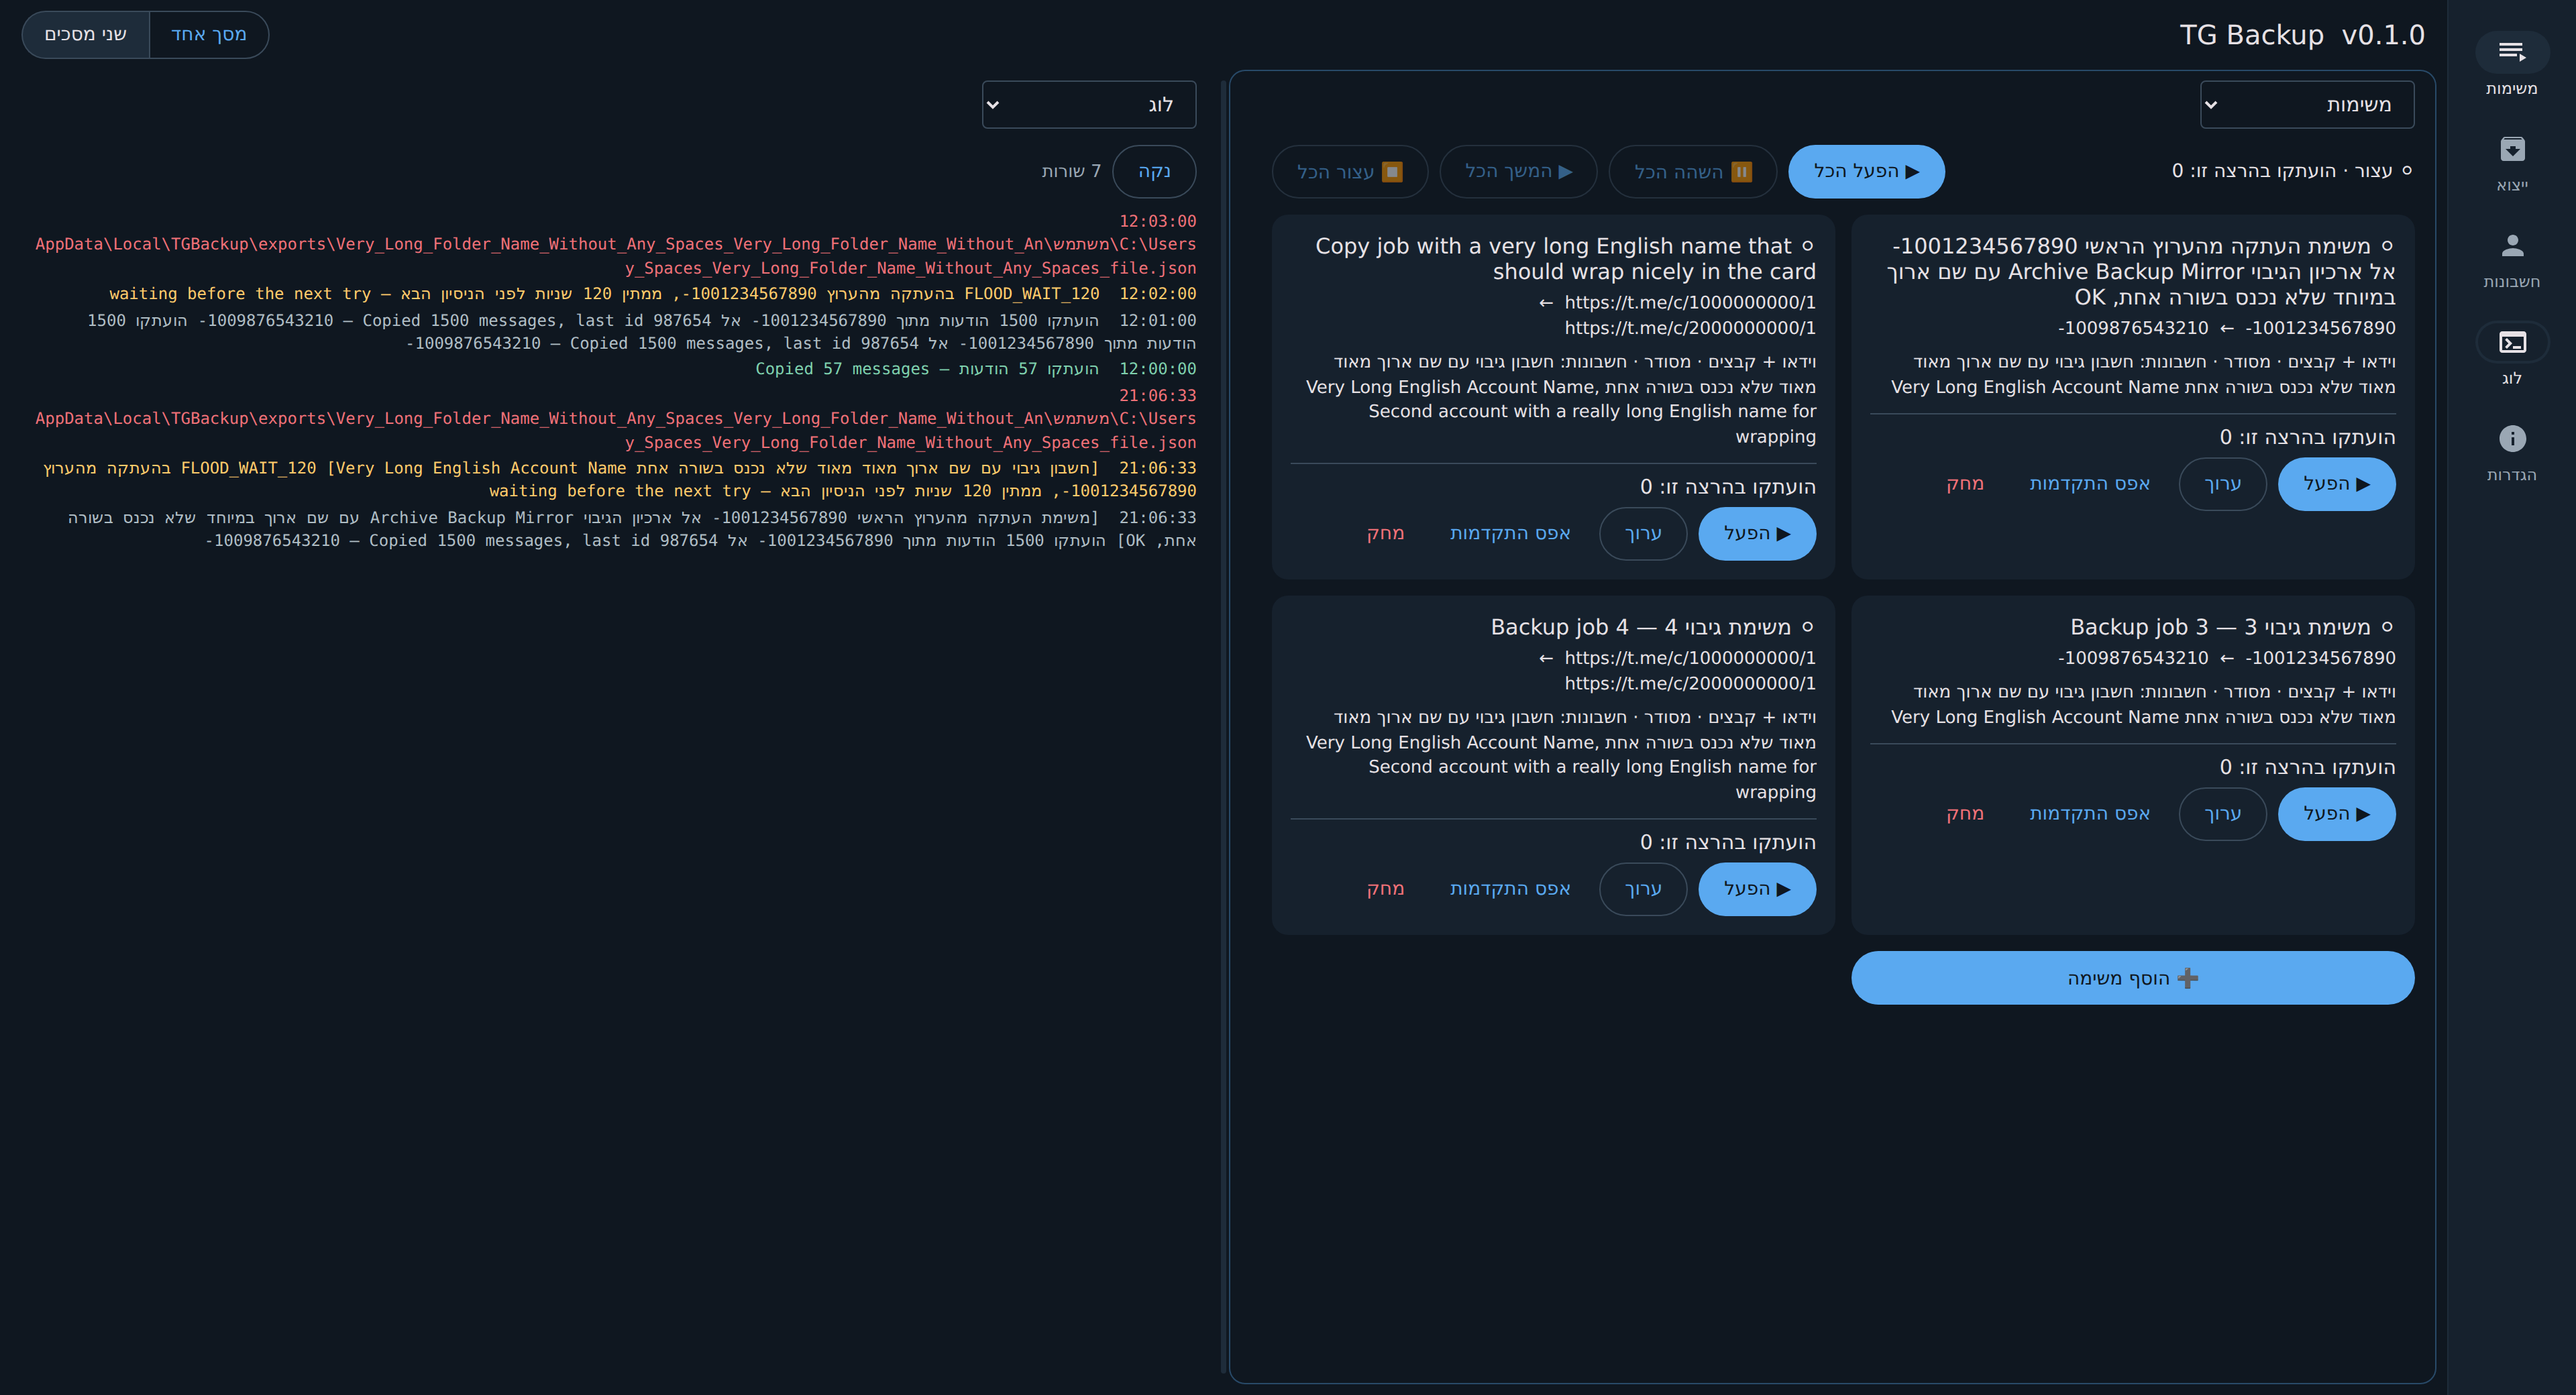
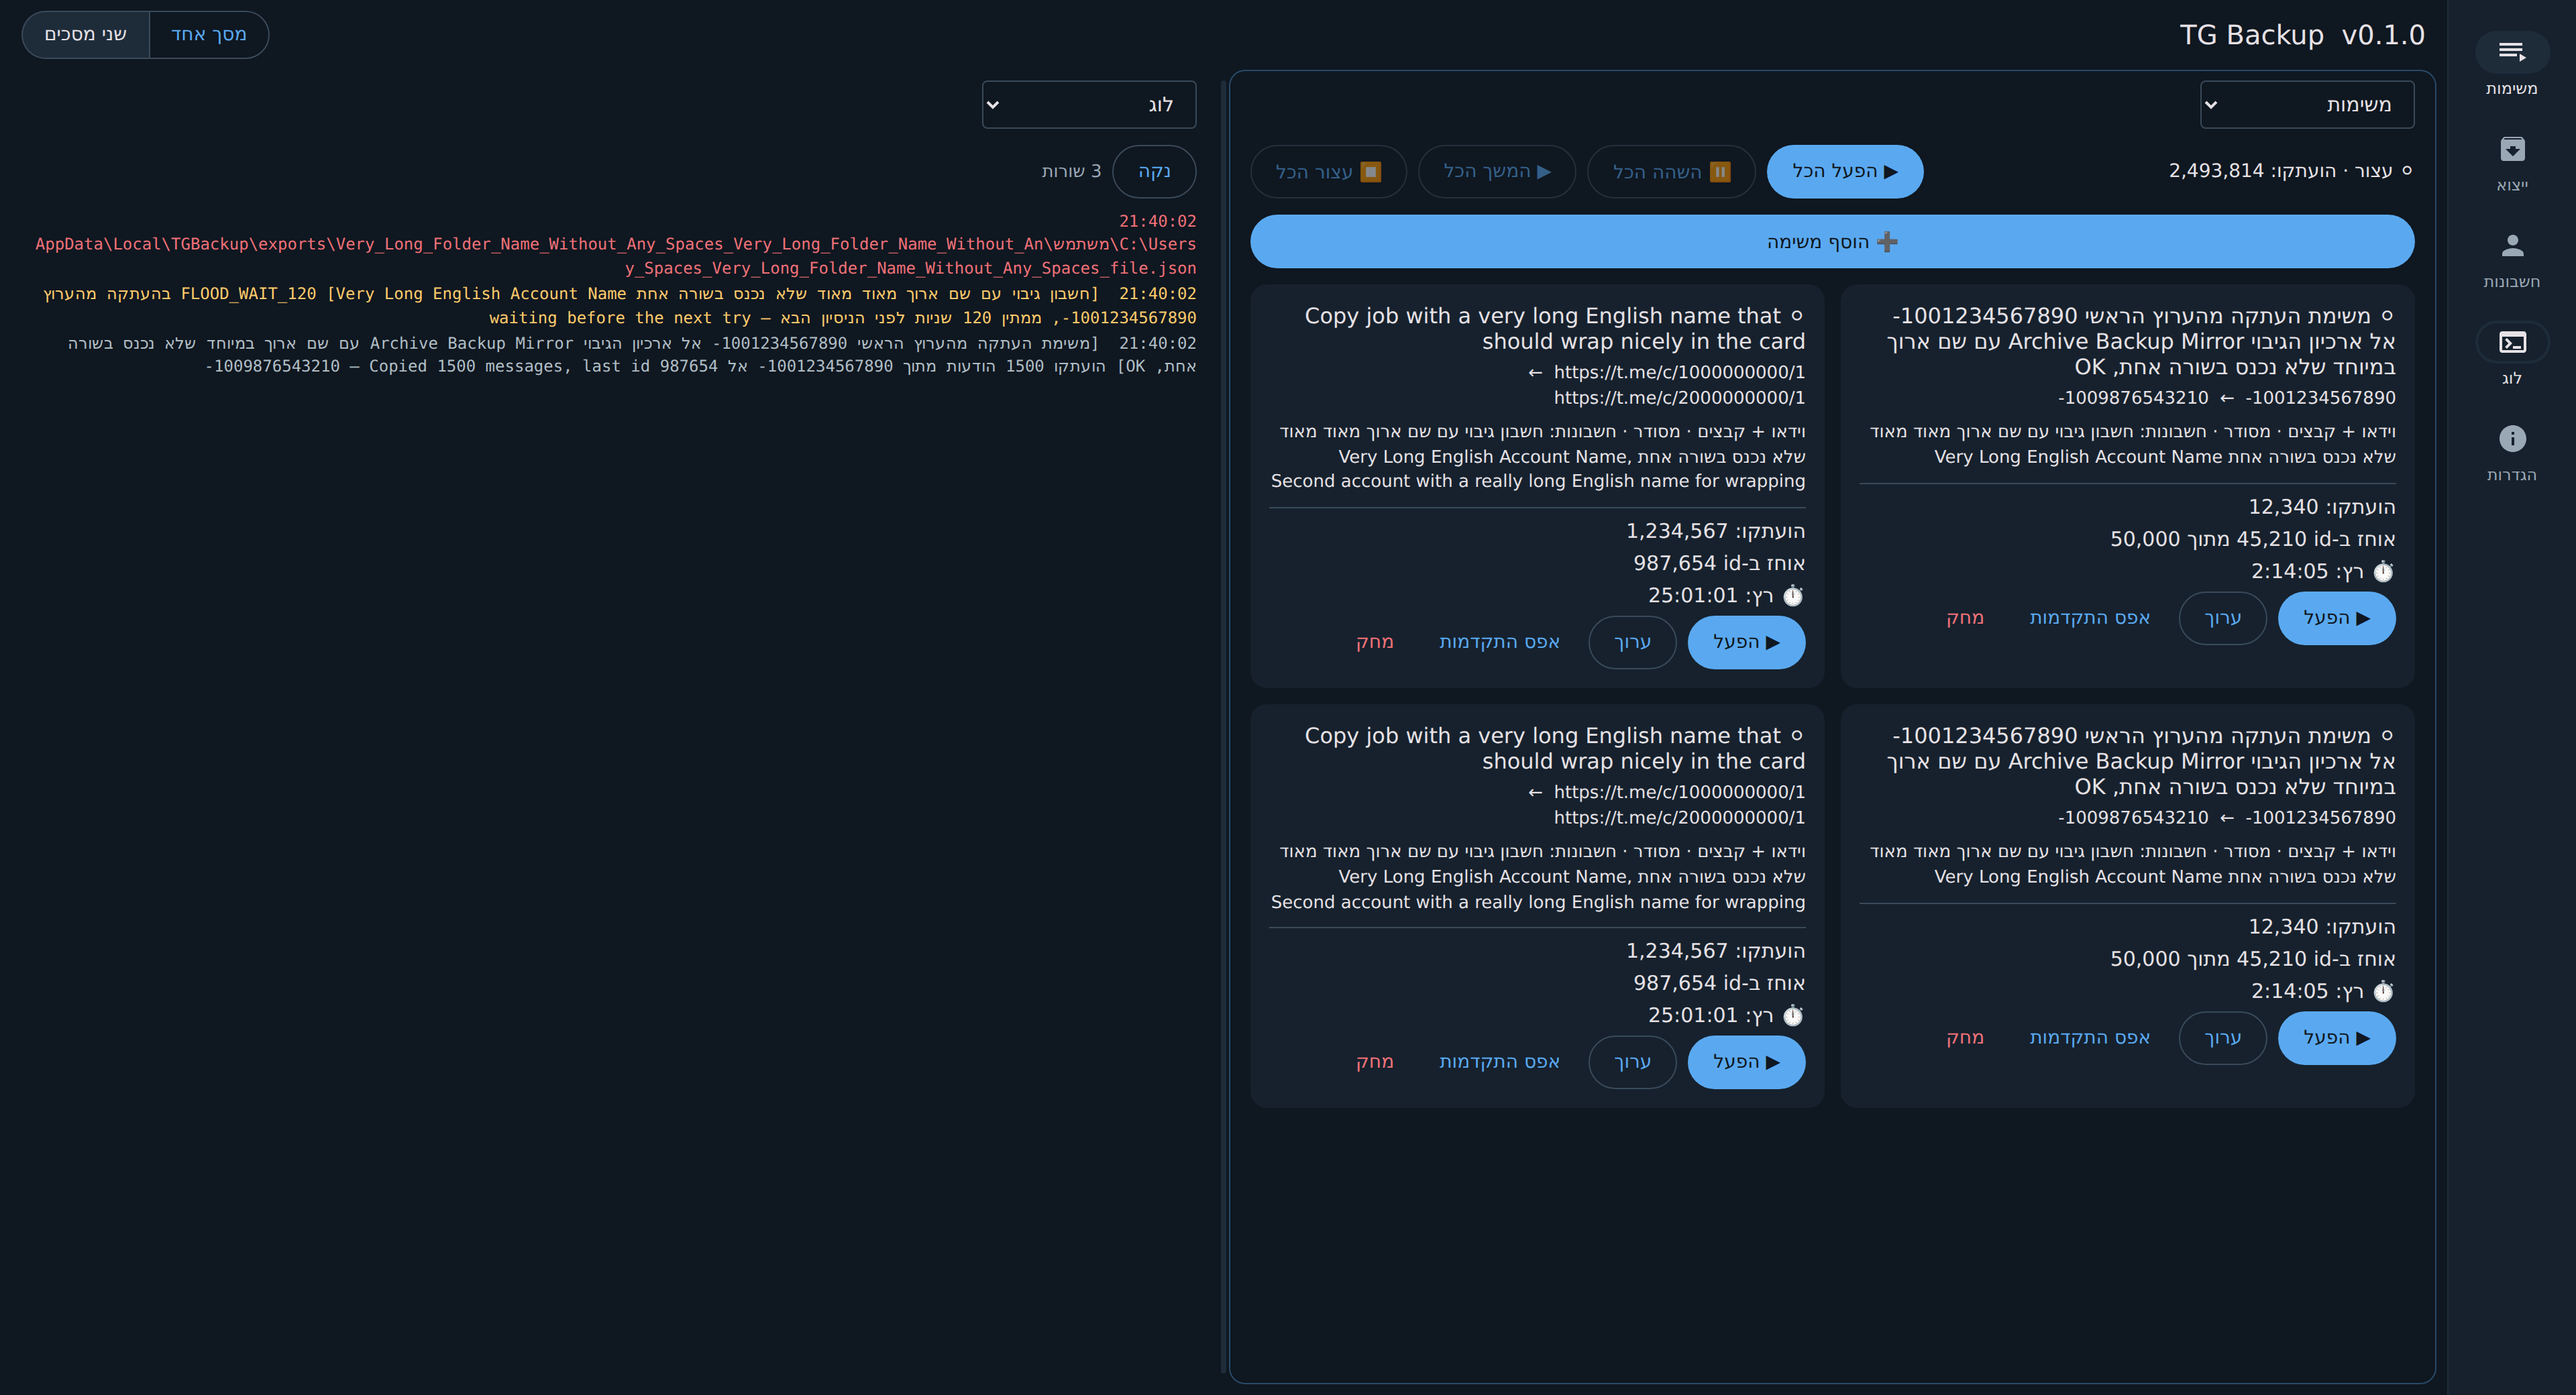
docs: the jobs screenshots again (split 2, 4 and 12 jobs, the window, and split at 1936x1040), deviceScaleFactor 2, long-names fixture: the cards fill the jobs pane, `➕ הוסף משימה` above them

diff --git a/docs/PORTING.md b/docs/PORTING.md
@@ -120,5 +120,6 @@ in `web-tests/` (jobs, accounts, export, shell, desktop-layout, split-view, layo
 ### Screenshots (`docs/screens/`, deviceScaleFactor 2, long-names fixture)
 - Phone 390×844: `phone-jobs.png`, `phone-accounts.png`, `phone-export.png`, `phone-log.png`, `phone-settings.png`.
 - Window 1100×750: `window-jobs.png`, `window-accounts.png`, `window-export.png`, `window-log.png`, `window-settings.png`.
-- Split view 1920×1040: `split-jobs-log.png` (2 jobs: the jobs pane a third), `split-jobs-4-log.png` (4 jobs: half, two columns), `split-jobs-12-log.png` (12 jobs: two columns, the jobs pane scrolls on its own), `split-accounts-export.png`. The cards fill the jobs pane (one column its width, or two sharing it).
+- Split view 1920×1040: `split-jobs-log.png` (2 jobs: the jobs pane a third), `split-jobs-4-log.png` (4 jobs: half, two columns), `split-jobs-12-log.png` (12 jobs: two columns, the jobs pane scrolls on its own), `split-accounts-export.png`. The cards fill the jobs pane (one column its width, or two sharing it); from 900 px `➕ הוסף משימה` heads the job list.
+- Split view 1936×1040 (a maximised Windows window): `split-jobs-log-1936.png` (2 jobs, a third).
 - One screen with the rail, 960×1040: `rail-960-jobs.png`.
